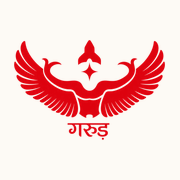
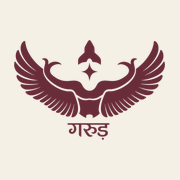
style: establish editorial design system

Changed region(s): [[0.0556, 0.2222, 0.9167, 0.7778], [0.4167, 0.2222, 0.5833, 0.4444]]

diff --git a/src/style.css b/src/style.css
@@ -1,77 +1,295 @@
+/* Garuda Dictionary: Swiss grid, editorial type, ivory canvas */
 :root {
-  --bg: #fdfaf5;
-  --fg: #1f1a17;
-  --muted: #6b5e55;
-  --accent: #c4000b; /* the logo's red, darkened slightly for text contrast */
-  --card: #ffffff;
-  --line: #ece3d8;
+  --color-background: #F5F0E6;
+  --color-surface: #FFFCF6;
+  --color-primary: #682B38;
+  --color-primary-dark: #491B26;
+  --color-gold: #B2935D;      /* icons, rules and markers only: 2.5:1 on ivory is too faint for text */
+  --color-gold-text: #8A6D3B; /* gold used as text (4.6:1 on ivory) */
+  --color-gold-soft: #EADCC3;
+  --color-text: #292521;
+  --color-muted: #766B60;
+  --color-border: #DED4C5;
+  --color-hover: #ECE4D7;
+
+  --font-sans: "Inter Variable", "Noto Serif Devanagari", system-ui, -apple-system, "Segoe UI", sans-serif;
+  --font-deva: "Noto Serif Devanagari", "Devanagari Sangam MN", "Kohinoor Devanagari", "Noto Sans Devanagari", serif;
+  --font-serif: Georgia, "Iowan Old Style", "Times New Roman", "Noto Serif Devanagari", serif;
+  --font-mono: ui-monospace, "SF Mono", Menlo, Consolas, monospace;
+
+  --gutter: clamp(16px, 4vw, 40px);
+  --radius: 999px;
+  --ease: 160ms ease;
+  color-scheme: light;
 }
-@media (prefers-color-scheme: dark) {
-  :root { --bg: #171310; --fg: #f2ebe4; --muted: #b3a69b; --accent: #ff6b6b; --card: #221c18; --line: #33291f; }
-}
-* { box-sizing: border-box; }
+
+*, *::before, *::after { box-sizing: border-box; }
+html { -webkit-text-size-adjust: 100%; }
 body {
-  margin: 0;
-  background: var(--bg);
-  color: var(--fg);
-  font: 18px/1.7 system-ui, "Noto Sans Devanagari", sans-serif;
+  margin: 0; min-height: 100vh; display: flex; flex-direction: column;
+  background: var(--color-background); color: var(--color-text);
+  font: 400 16px/1.6 var(--font-sans);
+  -webkit-font-smoothing: antialiased;
 }
-header { position: sticky; top: 0; z-index: 1; background: var(--bg); padding: 16px; border-bottom: 1px solid var(--line); }
-header, main, footer { max-width: 680px; margin-inline: auto; }
-footer { padding: 0 16px 32px; font-size: 0.85rem; color: var(--muted); }
-footer a { color: var(--accent); }
-h1 { font-size: 1.1rem; margin: 0 0 8px; color: var(--accent); display: flex; align-items: center; gap: 8px; }
-h1 img { height: 38px; width: auto; }
-h1 small { color: var(--muted); font-weight: normal; }
-input {
-  width: 100%; min-height: 48px; padding: 0 14px;
-  font: inherit; border: 2px solid var(--muted); border-radius: 10px;
-  background: var(--card); color: var(--fg);
-}
-input:focus { outline: none; border-color: var(--accent); }
-main { padding: 16px 16px 40px; }
-.card, .detail { display: block; background: var(--card); border: 1px solid var(--line); border-radius: 12px; padding: 12px 16px; margin-bottom: 10px; }
-.card { color: inherit; text-decoration: none; transition: border-color .15s; }
-.card:hover { border-color: var(--accent); }
-.featured { border-left: 4px solid var(--accent); }
-.featured h2 { font-size: 2.6rem; }
-.card:focus-visible, .back:focus-visible, button:focus-visible { outline: 3px solid var(--accent); outline-offset: 2px; }
-.card h2 { font-size: 2rem; margin: 0; line-height: 1.6; }
-.card p, .detail p { margin: 0; }
-.iast { color: var(--muted); }
+main { flex: 1; outline: none; }
+img, svg { display: block; }
+a { color: var(--color-primary); text-decoration: none; }
+a:hover { color: var(--color-primary-dark); }
+button { font: inherit; color: inherit; cursor: pointer; }
+:focus-visible { outline: 2px solid var(--color-primary); outline-offset: 3px; border-radius: 4px; }
+[hidden] { display: none !important; }
+[lang="hi"] { font-family: var(--font-deva); }
+.wrap { width: 100%; max-width: 1200px; margin-inline: auto; padding-inline: var(--gutter); }
+.skip { position: absolute; left: -999px; top: 8px; z-index: 10; background: var(--color-primary); color: var(--color-surface); padding: 8px 14px; border-radius: 6px; }
+.skip:focus { left: 8px; }
 
-.back { display: inline-flex; align-items: center; min-height: 48px; color: var(--accent); text-decoration: none; font-weight: 600; }
-.detail h2 { font-size: 3rem; margin: 0; line-height: 1.6; outline: none; }
-.detail .iast { font-size: 1.2rem; }
-.pos { font-style: italic; color: var(--muted); }
-.detail section { margin-top: 18px; }
-.detail h3 { font-size: 0.8rem; text-transform: uppercase; letter-spacing: 0.06em; color: var(--muted); margin: 0 0 4px; }
-.detail ol { margin: 0; padding-left: 22px; }
-blockquote { margin: 0; padding: 8px 12px; border-left: 3px solid var(--accent); font-size: 1.15rem; line-height: 1.8; }
-.chips { list-style: none; margin: 0; padding: 0; display: flex; flex-wrap: wrap; gap: 6px; }
-.chips li { border: 1px solid var(--muted); border-radius: 999px; padding: 0 12px; font-size: 0.95rem; }
-.actions { display: flex; flex-wrap: wrap; gap: 10px; margin-top: 22px; }
-.detail button {
-  min-height: 48px; padding: 0 18px; border-radius: 10px;
-  border: 2px solid var(--accent); background: transparent; color: var(--accent); font: inherit; font-weight: 600;
+.eyebrow {
+  margin: 0; font-size: 0.78rem; font-weight: 600; letter-spacing: 0.24em; text-transform: uppercase; color: var(--color-gold-text);
 }
-.save[aria-pressed="true"] { background: var(--accent); color: var(--card); }
-.missing { padding: 12px 0; }
+.ruled { display: grid; grid-template-columns: 1fr auto 1fr; align-items: center; gap: 20px; text-align: center; }
+.ruled::before, .ruled::after { content: ""; height: 1px; background: var(--color-gold); opacity: 0.7; }
+.iast { font-style: italic; }
 
-.label { font-size: 0.8rem; text-transform: uppercase; letter-spacing: 0.06em; color: var(--muted); font-weight: 600; margin: 18px 0 6px; }
-.label:first-child { margin-top: 0; }
-.links li { padding: 0; border-color: var(--line); }
-.links a { display: inline-flex; align-items: center; min-height: 44px; padding: 0 14px; color: inherit; text-decoration: none; font-size: 1.1rem; }
-.links a:focus-visible { outline: 3px solid var(--accent); border-radius: 999px; }
+/* ---------- masthead ---------- */
+.masthead { border-bottom: 1px solid var(--color-border); background: var(--color-background); position: relative; z-index: 5; }
+.masthead-row { display: flex; align-items: center; gap: 24px; min-height: 76px; }
+.brand { display: flex; align-items: center; gap: 16px; color: var(--color-primary); margin-right: auto; }
+.brand img { height: 44px; width: auto; }
+.brand-text { display: flex; flex-direction: column; padding-left: 16px; border-left: 1px solid var(--color-border); line-height: 1.15; }
+.brand-name { font-size: 1.35rem; font-weight: 600; letter-spacing: 0.32em; text-transform: uppercase; }
+.brand-sub { font-size: 0.7rem; font-weight: 500; letter-spacing: 0.34em; text-transform: uppercase; color: var(--color-muted); }
+.site-nav { display: flex; gap: 36px; }
+.site-nav a { color: var(--color-text); font-size: 0.98rem; padding: 10px 0; border-bottom: 2px solid transparent; transition: color var(--ease), border-color var(--ease); }
+.site-nav a:hover { color: var(--color-primary); }
+.site-nav a[aria-current] { color: var(--color-primary); border-bottom-color: var(--color-primary); }
+.icon-link { display: grid; place-items: center; width: 44px; height: 44px; color: var(--color-text); }
+.icon-link[aria-current] { color: var(--color-primary); }
+.menu-btn { display: none; width: 44px; height: 44px; place-items: center; border: 0; background: none; }
 
-.empty { padding: 8px 0; margin-top: 18px; }
-.empty:first-child { margin-top: 0; }
-.empty h2 { font-size: 1.3rem; margin: 0 0 6px; overflow-wrap: anywhere; }
-.empty p { margin: 0 0 8px; color: var(--muted); }
-.try-label { font-weight: 600; }
-.tries { display: flex; flex-wrap: wrap; gap: 8px; }
-.tries button {
-  min-height: 44px; padding: 0 16px; border-radius: 999px; font: inherit;
-  border: 2px solid var(--accent); background: transparent; color: var(--accent);
+/* ---------- search ---------- */
+.search-wrap { position: relative; }
+.search {
+  display: flex; align-items: center; gap: 4px; min-height: 64px; padding: 6px 6px 6px 22px;
+  background: var(--color-surface); border: 1px solid #CDBFAE; border-radius: var(--radius);
+  transition: border-color var(--ease), box-shadow var(--ease);
 }
-main > h3 { font-size: 0.95rem; color: var(--muted); font-weight: 600; margin: 16px 0 8px; }
+.search:hover { border-color: var(--color-muted); }
+.search:focus-within { border-color: var(--color-primary); box-shadow: 0 0 0 3px rgba(104, 43, 56, 0.12); }
+.search-icon { color: var(--color-muted); flex: none; }
+.search-input {
+  flex: 1; min-width: 0; height: 50px; border: 0; background: transparent; outline: none;
+  font: 400 1.12rem var(--font-sans); color: var(--color-text); padding: 0 12px;
+}
+.search-input::placeholder { color: var(--color-muted); }
+.search-clear { width: 44px; height: 44px; border: 0; background: none; border-radius: 50%; color: var(--color-muted); display: grid; place-items: center; }
+.search-clear:hover { background: var(--color-hover); color: var(--color-text); }
+.search-go {
+  flex: none; width: 84px; height: 50px; border: 0; border-radius: var(--radius);
+  background: var(--color-primary); color: var(--color-surface); display: grid; place-items: center; transition: background var(--ease);
+}
+.search-go:hover { background: var(--color-primary-dark); }
+
+.panel {
+  position: absolute; left: 0; right: 0; top: calc(100% + 8px); z-index: 4;
+  max-height: min(62vh, 520px); overflow: auto; padding: 8px;
+  background: var(--color-surface); border: 1px solid var(--color-border); border-radius: 18px;
+  box-shadow: 0 14px 36px rgba(41, 37, 33, 0.10);
+}
+.panel-label { margin: 10px 14px 4px; font-size: 0.75rem; font-weight: 600; letter-spacing: 0.2em; text-transform: uppercase; color: var(--color-gold-text); }
+
+.opt {
+  display: flex; align-items: center; justify-content: space-between; gap: 16px;
+  padding: 10px 14px; border-radius: 10px; border-left: 3px solid transparent; color: var(--color-text);
+  transition: background var(--ease);
+}
+.opt:hover, .opt[aria-selected="true"] { background: var(--color-hover); color: var(--color-text); }
+.opt[aria-selected="true"] { border-left-color: var(--color-primary); }
+.opt-text { display: grid; grid-template-columns: auto auto 1fr; align-items: baseline; gap: 4px 14px; min-width: 0; }
+.opt-head { font-size: 1.55rem; font-weight: 600; line-height: 1.45; }
+.opt-iast { font-style: italic; color: var(--color-muted); }
+.opt-meta { font-size: 0.92rem; color: var(--color-muted); white-space: nowrap; overflow: hidden; text-overflow: ellipsis; }
+.opt-arrow { color: var(--color-muted); flex: none; }
+
+.no-results { padding: 14px; }
+.no-results p { margin: 0 0 8px; color: var(--color-muted); }
+.no-results .no-results-title { font-weight: 600; color: var(--color-text); font-size: 1.05rem; overflow-wrap: anywhere; }
+.tries { display: flex; flex-wrap: wrap; gap: 8px; margin-top: 4px; }
+.tries button, .toggle {
+  min-height: 44px; padding: 0 16px; border-radius: var(--radius); border: 1px solid var(--color-border);
+  background: var(--color-surface); color: var(--color-primary); transition: background var(--ease), border-color var(--ease);
+}
+.tries button:hover, .toggle:hover:not(:disabled) { border-color: var(--color-primary); }
+
+/* ---------- home ---------- */
+.hero { max-width: 980px; margin: 0 auto; padding: clamp(40px, 9vw, 104px) 0 0; }
+.display {
+  margin: 0; font-size: clamp(2.5rem, 6.2vw, 4.75rem); line-height: 1.04; font-weight: 600; letter-spacing: -0.025em; max-width: 15ch;
+}
+.lede { margin: 18px 0 clamp(28px, 5vw, 44px); font-size: clamp(1.05rem, 1.6vw, 1.25rem); color: var(--color-muted); max-width: 52ch; }
+
+.wotd { max-width: 900px; margin: clamp(56px, 9vw, 96px) auto 0; }
+.wotd-body { display: flex; align-items: center; justify-content: center; gap: clamp(20px, 4vw, 44px); margin-top: 28px; }
+.wotd-word { font-size: clamp(4rem, 10vw, 6rem); font-weight: 600; line-height: 1.3; color: var(--color-primary); }
+.wotd-text { padding-left: clamp(20px, 4vw, 44px); border-left: 1px solid var(--color-border); min-width: 0; }
+.wotd-meta { margin: 0; font-size: 1.15rem; color: var(--color-muted); }
+.wotd-meta .iast { font-size: 1.5rem; color: var(--color-text); }
+.wotd-meaning { margin: 4px 0 0; font: 400 clamp(1.2rem, 2vw, 1.5rem)/1.4 var(--font-serif); }
+.circle-link {
+  flex: none; width: 52px; height: 52px; border-radius: 50%; border: 1px solid var(--color-border);
+  display: grid; place-items: center; color: var(--color-text); transition: border-color var(--ease), color var(--ease), transform var(--ease);
+}
+.circle-link:hover { border-color: var(--color-primary); color: var(--color-primary); transform: translateX(2px); }
+
+.shortcuts { display: grid; grid-template-columns: repeat(4, 1fr); max-width: 1000px; margin: clamp(56px, 8vw, 88px) auto clamp(56px, 8vw, 96px); }
+.shortcut {
+  display: flex; flex-direction: column; align-items: center; gap: 14px; padding: 12px 8px; min-height: 96px; justify-content: center;
+  font-size: 0.76rem; font-weight: 600; letter-spacing: 0.22em; text-transform: uppercase; color: var(--color-text); text-align: center;
+}
+.shortcut + .shortcut { border-left: 1px solid var(--color-border); }
+.shortcut:hover { color: var(--color-primary); }
+.shortcut-mark { color: var(--color-gold); height: 32px; display: grid; place-items: center; }
+.glyph { font-size: 1.6rem; font-weight: 600; letter-spacing: 0; text-transform: none; line-height: 1; }
+
+/* ---------- search + detail ---------- */
+.search-wrap.top { margin-top: 28px; }
+.word-layout { display: grid; grid-template-columns: 1fr; margin: 36px 0 72px; }
+.word-layout.has-results { grid-template-columns: minmax(220px, 27%) 1fr; }
+.results { padding-right: 28px; border-right: 1px solid var(--color-border); }
+.results-count { margin: 0 0 16px; color: var(--color-muted); overflow-wrap: anywhere; }
+.results-list .opt { border-radius: 0 8px 8px 0; padding: 12px 14px; border-bottom: 1px solid var(--color-border); border-left-width: 3px; }
+.results-list .opt-text { grid-template-columns: 1fr; gap: 0; }
+.results-list .opt.is-current { background: var(--color-hover); border-left-color: var(--color-primary); border-bottom-color: transparent; }
+.results-list .opt.is-current .opt-arrow { color: var(--color-primary); }
+.results .no-results { padding: 8px 0; }
+.word-layout.has-results .detail { padding-left: clamp(28px, 4vw, 56px); }
+
+.entry-head {
+  display: grid; grid-template-columns: auto 1fr auto; align-items: center; gap: 12px clamp(20px, 3vw, 40px);
+  padding-bottom: 28px; border-bottom: 1px solid var(--color-border);
+}
+.entry-word { margin: 0; font-size: clamp(4rem, 9vw, 7.5rem); font-weight: 600; line-height: 1.25; color: var(--color-primary); outline: none; }
+.entry-iast { margin: 0; font-size: clamp(1.5rem, 3vw, 2.25rem); font-style: italic; color: var(--color-muted); line-height: 1.2; }
+.entry-gram { padding-left: clamp(20px, 3vw, 36px); border-left: 1px solid var(--color-border); align-self: center; }
+.entry-gender { margin: 4px 0 0; font: italic 1.2rem var(--font-serif); }
+.entry-actions { display: flex; align-items: center; }
+.action {
+  display: inline-flex; align-items: center; gap: 8px; min-height: 44px; padding: 0 16px;
+  border: 0; background: none; color: var(--color-text); border-radius: 8px; transition: color var(--ease), background var(--ease);
+}
+.action + .action { border-left: 1px solid var(--color-border); border-radius: 0 8px 8px 0; }
+.action:hover { color: var(--color-primary); background: var(--color-hover); }
+.action[aria-pressed="true"] { color: var(--color-primary); }
+.action[aria-pressed="true"] svg { fill: currentColor; }
+
+.entry-section { padding: 28px 0; border-bottom: 1px solid var(--color-border); }
+.entry-section:last-child { border-bottom: 0; }
+.entry-section h2 { margin: 0 0 16px; font: 600 clamp(1.5rem, 2.4vw, 1.9rem) var(--font-serif); }
+.meanings { list-style: none; margin: 0; padding: 0; counter-reset: m; display: grid; gap: 12px; }
+.meanings li { counter-increment: m; display: grid; grid-template-columns: 32px 1fr; gap: 16px; align-items: baseline; font: 1.15rem/1.6 var(--font-serif); }
+.meanings li::before {
+  content: counter(m); width: 28px; height: 28px; border-radius: 50%; background: var(--color-gold-soft);
+  display: grid; place-items: center; font: 600 0.8rem var(--font-mono); color: var(--color-text); transform: translateY(-2px);
+}
+.example { margin: 0; padding-left: 20px; border-left: 2px solid var(--color-gold); font-size: clamp(1.2rem, 2vw, 1.4rem); line-height: 1.9; }
+.pills { list-style: none; margin: 0; padding: 0; display: flex; flex-wrap: wrap; gap: 10px; }
+.pills li { padding: 6px 18px; border: 1px solid var(--color-primary); border-radius: var(--radius); color: var(--color-primary); font-family: var(--font-sans); }
+.not-found h1 { font-size: clamp(1.6rem, 3vw, 2.2rem); overflow-wrap: anywhere; outline: none; }
+
+/* ---------- browse / lists / about ---------- */
+.page { padding: clamp(40px, 7vw, 80px) 0 80px; }
+.page.narrow { max-width: 820px; }
+.page-title { margin: 8px 0 28px; font-size: clamp(2.25rem, 5vw, 3.5rem); line-height: 1.08; font-weight: 600; letter-spacing: -0.02em; outline: none; }
+.tabs { display: flex; gap: 28px; border-bottom: 1px solid var(--color-border); margin-bottom: 24px; }
+.tab { padding: 10px 0; color: var(--color-muted); border-bottom: 2px solid transparent; margin-bottom: -1px; font-weight: 500; }
+.tab[aria-current] { color: var(--color-primary); border-bottom-color: var(--color-primary); }
+.letters { display: flex; flex-wrap: wrap; gap: 6px; margin-bottom: 20px; }
+.letters .toggle { min-width: 44px; padding: 0 10px; font-weight: 600; }
+.toggle[aria-pressed="true"] { background: var(--color-primary); border-color: var(--color-primary); color: var(--color-surface); }
+.toggle:disabled { opacity: 0.35; cursor: default; }
+.filter-row { display: flex; flex-wrap: wrap; align-items: center; gap: 12px; margin-bottom: 28px; }
+.filter-label { font-size: 0.78rem; font-weight: 600; letter-spacing: 0.2em; text-transform: uppercase; color: var(--color-muted); }
+.chips { display: flex; flex-wrap: wrap; gap: 6px; }
+.list-count { margin: 0 0 8px; font: 0.85rem var(--font-mono); color: var(--color-muted); }
+.index { list-style: none; margin: 0; padding: 0; display: grid; grid-template-columns: repeat(auto-fill, minmax(280px, 1fr)); column-gap: 40px; border-top: 1px solid var(--color-border); }
+.index.single { grid-template-columns: 1fr; }
+.row { display: flex; align-items: center; gap: 12px; border-bottom: 1px solid var(--color-border); }
+.row-link { flex: 1; min-width: 0; display: grid; grid-template-columns: auto 1fr; gap: 0 14px; align-items: baseline; padding: 12px 4px; color: var(--color-text); transition: background var(--ease); }
+.row-link:hover { background: var(--color-hover); color: var(--color-text); }
+.row-head { grid-row: span 2; font-size: 1.6rem; font-weight: 600; line-height: 1.45; color: var(--color-primary); }
+.row-iast { font-style: italic; color: var(--color-muted); }
+.row-meaning { font-size: 0.95rem; white-space: nowrap; overflow: hidden; text-overflow: ellipsis; }
+.remove { min-height: 44px; padding: 0 14px; border: 1px solid var(--color-border); border-radius: var(--radius); background: none; color: var(--color-muted); }
+.remove:hover { color: var(--color-primary); border-color: var(--color-primary); }
+.more { margin-top: 24px; min-height: 48px; padding: 0 24px; border: 1px solid var(--color-primary); border-radius: var(--radius); background: none; color: var(--color-primary); }
+.empty, .empty-row { padding: 20px 0; color: var(--color-muted); }
+.empty p { margin: 0 0 6px; }
+.facts { display: grid; grid-template-columns: 180px 1fr; gap: 18px 32px; margin: 0; border-top: 1px solid var(--color-border); padding-top: 24px; }
+.facts dt { font-size: 0.78rem; font-weight: 600; letter-spacing: 0.2em; text-transform: uppercase; color: var(--color-gold-text); padding-top: 4px; }
+.facts dd { margin: 0; font: 1.12rem/1.6 var(--font-serif); }
+
+/* ---------- footer ---------- */
+.site-footer { border-top: 1px solid var(--color-border); padding: 36px 0 44px; font-size: 0.9rem; color: var(--color-muted); }
+.footer-row { display: flex; flex-wrap: wrap; justify-content: space-between; gap: 24px 64px; }
+.site-footer p { margin: 0 0 6px; }
+.footer-brand { color: var(--color-primary); font-weight: 600; letter-spacing: 0.24em; text-transform: uppercase; font-size: 0.85rem; }
+.footer-label { font-size: 0.72rem; font-weight: 600; letter-spacing: 0.2em; text-transform: uppercase; color: var(--color-muted); }
+.footer-links { list-style: none; margin: 0; padding: 0; display: flex; flex-wrap: wrap; gap: 4px 20px; }
+.footer-links a, .site-footer a { display: inline-block; padding: 6px 0; }
+
+/* ---------- tablet ---------- */
+@media (max-width: 900px) {
+  .word-layout.has-results { grid-template-columns: 1fr; }
+  .results { padding: 0 0 20px; border-right: 0; border-bottom: 1px solid var(--color-border); margin-bottom: 24px; }
+  .word-layout.has-results .detail { padding-left: 0; }
+  /* results become a strip of pills that scrolls inside itself, never the page */
+  .results-list { display: flex; gap: 8px; overflow-x: auto; padding-bottom: 6px; scrollbar-width: thin; }
+  .results-list .opt { flex: none; border: 1px solid var(--color-border); border-radius: var(--radius); padding: 4px 16px; }
+  .results-list .opt.is-current { border-color: var(--color-primary); }
+  .results-list .opt-iast, .results-list .opt-arrow { display: none; }
+  .results-list .opt-head { font-size: 1.25rem; }
+  .results-list .panel-label { flex: none; align-self: center; margin: 0 4px; }
+  .entry-head { grid-template-columns: 1fr auto; }
+  .entry-actions { grid-column: 1 / -1; }
+}
+
+/* ---------- phone ---------- */
+@media (max-width: 720px) {
+  .masthead-row { min-height: 64px; gap: 8px; }
+  .brand { gap: 12px; }
+  .brand img { height: 36px; }
+  .brand-text { padding-left: 12px; }
+  .brand-name { font-size: 1.1rem; }
+  .menu-btn { display: grid; order: 3; }
+  .saved-link { order: 2; }
+  .site-nav {
+    display: none; position: absolute; top: 100%; left: 0; right: 0; flex-direction: column; gap: 0;
+    background: var(--color-background); border-bottom: 1px solid var(--color-border); padding: 4px var(--gutter) 12px;
+  }
+  .site-nav.open { display: flex; }
+  .site-nav a { padding: 14px 0; border-bottom: 1px solid var(--color-border); }
+  .site-nav a[aria-current] { border-bottom-color: var(--color-border); font-weight: 600; }
+  .search { padding-left: 16px; min-height: 58px; }
+  .search-go { width: 56px; height: 46px; }
+  .search-input { font-size: 1rem; padding: 0 8px; }
+  .opt-text { grid-template-columns: auto 1fr; }
+  .opt-meta { grid-column: 1 / -1; }
+  .wotd-body { flex-direction: column; text-align: center; gap: 12px; }
+  .wotd-text { border-left: 0; padding-left: 0; }
+  .shortcuts { grid-template-columns: repeat(2, 1fr); }
+  .shortcut:nth-child(3) { border-left: 0; }
+  .shortcut:nth-child(n + 3) { border-top: 1px solid var(--color-border); }
+  .entry-head { grid-template-columns: 1fr; }
+  .entry-gram { border-left: 0; padding-left: 0; display: flex; gap: 12px; align-items: baseline; }
+  .entry-gender { margin: 0; }
+  .entry-actions .action:first-child { padding-left: 0; }
+  .facts { grid-template-columns: 1fr; gap: 4px; }
+  .facts dd { margin-bottom: 16px; }
+}
+@media (max-width: 360px) {
+  .brand-sub { letter-spacing: 0.2em; }
+  .brand-name { letter-spacing: 0.22em; }
+}
+
+@media (prefers-reduced-motion: reduce) {
+  *, *::before, *::after { transition: none !important; scroll-behavior: auto !important; }
+}

diff --git a/vite.config.js b/vite.config.js
@@ -24,14 +24,15 @@ export default defineConfig({
     VitePWA({
       registerType: "autoUpdate",
       // the 750 KB source logo stays out of the offline cache; the app uses the small PNGs made from it
-      // the app already bundles the words, so the public API files are left out too
-      workbox: { globPatterns: ["**/*.{js,css,html,png,woff2,json}"], globIgnores: ["api/**"] },
+      // the app already bundles the words, so the public API files are left out too;
+      // Inter's non-Latin subsets are never used, so they are not cached for offline either
+      workbox: { globPatterns: ["**/*.{js,css,html,png,woff2,json}"], globIgnores: ["api/**", "**/*-{cyrillic,cyrillic-ext,greek,greek-ext,vietnamese}-*.woff2"] },
       manifest: {
         name: "Garuda Dictionary (prototype)",
         short_name: "Garuda Kosh",
         description: "Hindi and Sanskrit words, searchable in Devanagari or Roman letters.",
-        theme_color: "#c4000b",
-        background_color: "#fdfaf5",
+        theme_color: "#682B38",
+        background_color: "#F5F0E6",
         display: "standalone",
         start_url: ".",
         icons: [
